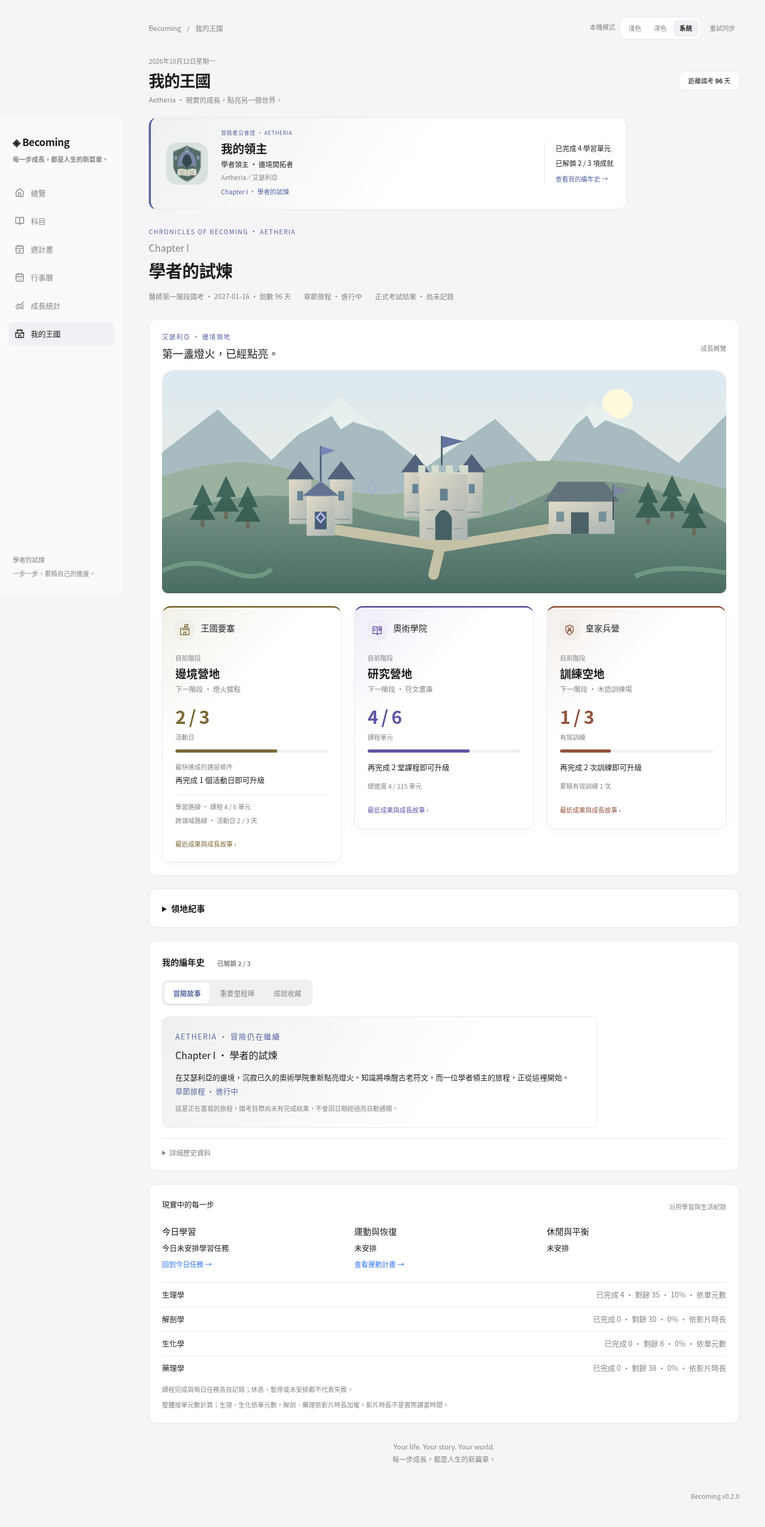
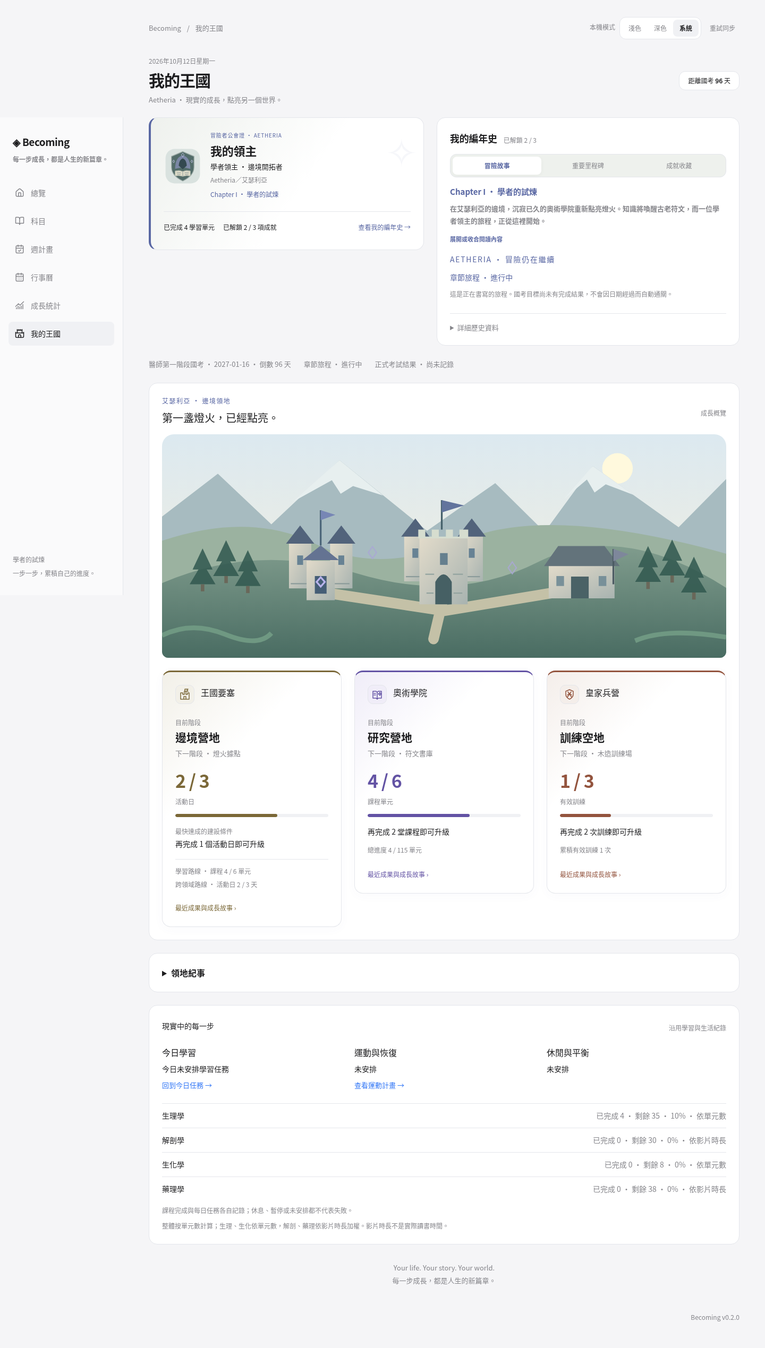
fix: Unite character stories and allow independent building comparison

diff --git a/tests/browser/rpg-ux.spec.js b/tests/browser/rpg-ux.spec.js
@@ -10,20 +10,24 @@ async function seed(page,dated=true){await page.addInitScript(({dated})=>{
 const stored=page=>page.evaluate(()=>Object.fromEntries(Object.entries(localStorage).filter(([key])=>!['med_exam_active_tab','med_exam_active_subject','med_exam_theme_preference'].includes(key))));
 async function view(page,name){await page.getByRole('tab',{name,exact:true}).click();}
 test.beforeEach(async({page})=>{await page.route('**/*',r=>new URL(r.request().url()).hostname==='127.0.0.1'?r.continue():r.abort());await page.clock.install({time:new Date('2026-10-12T04:00:00Z')});});
-for(const width of [390,1440])test('compact guild pass, three chronicles views and unchanged territory values at '+width+'px',async({page})=>{
+for(const width of [320,390,1440])test('compact guild pass, three chronicles views and unchanged territory values at '+width+'px',async({page})=>{
  await page.setViewportSize({width,height:900});await seed(page);const errors=[];page.on('pageerror',e=>errors.push(e.message));await page.goto('/?mode=local');await go(page);const before=await stored(page);
  const card=page.locator('.lord-profile');await expect(card).toContainText('冒險者公會證');await expect(page.locator('#lord-name')).toHaveText('我的領主');await expect(card).toContainText('學者領主 · 邊境開拓者');await expect(card).toContainText('Aetheria／艾瑟利亞');await expect(page.locator('#lord-chapter')).toHaveText('Chapter I · 學者的試煉');await expect(page.locator('#lord-study-count')).toHaveText('已完成 4 學習單元');await expect(page.locator('#lord-achievements-count')).toHaveText('已解鎖 2 / 3 項成就');
- const box=await card.boundingBox();expect(box.width).toBeLessThanOrEqual(900);expect(box.height).toBeLessThanOrEqual(width===390?300:220);
+ const box=await card.boundingBox();expect(box.width).toBeLessThanOrEqual(900);expect(box.height).toBeLessThanOrEqual(300);
+ const chronicle=await page.locator('.chronicle-card').boundingBox();
+ if(width===1440){expect(box.width).toBeGreaterThanOrEqual(380);expect(chronicle.x).toBeGreaterThan(box.x+box.width);expect(Math.abs(chronicle.y-box.y)).toBeLessThan(2);expect(Math.abs(chronicle.height-box.height)).toBeLessThan(24);}else{expect(chronicle.y).toBeGreaterThanOrEqual(box.y+box.height);expect(Math.abs(chronicle.x-box.x)).toBeLessThan(2);}
+ await expect(page.locator('#kingdom-chronicles')).not.toHaveAttribute('open','');await expect(page.locator('#chronicle-chapter')).toBeVisible();await expect(page.locator('#kingdom-story')).toBeVisible();await expect(page.getByRole('tab')).toHaveCount(3);for(const tab of await page.getByRole('tab').all())await expect(tab).toBeVisible();
+ await expect(page.locator('#chronicle-chapter')).toHaveCount(1);await expect(page.locator('#kingdom-story')).toHaveCount(1);await expect(page.locator('.kingdom-intro')).toHaveCount(0);await page.locator('.character-story').screenshot({path:'test-results/character-story-'+width+'.png'});
  expect(await card.evaluate(el=>[...el.children].every(child=>{const a=el.getBoundingClientRect(),b=child.getBoundingClientRect();return b.left>=a.left&&b.right<=a.right&&b.bottom<=a.bottom;}))).toBe(true);
  await expect(page.locator('#building-academy .building-stage')).toHaveText('研究營地');await expect(page.locator('#building-academy .building-number')).toHaveText('4 / 6');await expect(page.locator('#building-academy .building-progress-label')).toHaveText('再完成 2 堂課程即可升級');await expect(page.locator('#building-barracks .building-number')).toHaveText('1 / 3');await expect(page.locator('#building-keep .building-number')).toHaveText('2 / 3');await expect(page.locator('#building-keep .keep-route-overview [data-path]')).toHaveCount(2);
  const colours=await page.locator('.building-number').evaluateAll(es=>es.map(e=>getComputedStyle(e).color));expect(new Set(colours).size).toBe(3);
  await page.locator('#lord-open-chronicles').focus();await page.locator('#lord-open-chronicles').press('Enter');await expect(page.locator('#kingdom-chronicles')).toHaveAttribute('open','');await expect(page.locator('#kingdom-chronicles > summary')).toBeFocused();await expect(page.getByRole('tabpanel',{name:'冒險故事'})).toBeVisible();await expect(page.locator('#chronicle-chapter')).toHaveText('Chapter I · 學者的試煉');await expect(page.locator('#kingdom-story')).toContainText('旅程');await expect(page.locator('.chronicle-state')).toHaveText('章節旅程 · 進行中');
  await expect(page.locator('#chronicle-detailed-history')).not.toHaveAttribute('open','');await expect(page.locator('#xp-detail')).not.toBeVisible();
- await view(page,'重要里程碑');await expect(page.getByRole('tabpanel',{name:'冒險故事'})).not.toBeVisible();await expect(page.locator('#chronicle-history [data-milestone-id]')).toHaveCount(1);await expect(page.locator('#chronicle-history')).toContainText('2026-10-09');await expect(page.locator('#chronicle-current')).toContainText('目前進度 · 日期未記錄');await expect(page.locator('#chronicle-current')).toContainText('研究營地');await expect(page.locator('#chronicle-current')).toContainText('2 / 3 項成就');await expect(page.locator('#chronicle-history')).not.toContainText('建築');
+ await view(page,'重要里程碑');expect((await card.boundingBox()).height).toBe(box.height);await expect(page.getByRole('tabpanel',{name:'冒險故事'})).not.toBeVisible();await expect(page.locator('#chronicle-history [data-milestone-id]')).toHaveCount(1);await expect(page.locator('#chronicle-history')).toContainText('2026-10-09');await expect(page.locator('#chronicle-current')).toContainText('目前進度 · 日期未記錄');await expect(page.locator('#chronicle-current')).toContainText('研究營地');await expect(page.locator('#chronicle-current')).toContainText('2 / 3 項成就');await expect(page.locator('#chronicle-history')).not.toContainText('建築');
  await view(page,'成就收藏');await expect(page.locator('#achievements .achievement')).toHaveCount(3);await expect(page.locator('#achievements .unlocked')).toHaveCount(2);await expect(page.locator('#achievements .achievement-status')).toHaveText(['已解鎖','已解鎖','待解鎖']);await expect(page.locator('#achievements')).toContainText('開始前進');await expect(page.locator('#achievements')).toContainText('持續累積');await page.locator('#chronicle-detailed-history > summary').click();await expect(page.locator('#xp-detail')).toBeVisible();await expect(page.locator('#xp-detail')).toHaveText('60 XP');await expect(page.locator('#legacy-time-history')).toContainText('尚無舊時間目標紀錄');
  expect(await stored(page)).toEqual(before);expect(errors).toEqual([]);expect(await page.evaluate(()=>document.documentElement.scrollWidth<=innerWidth)).toBe(true);
  await page.locator('#chronicle-detailed-history > summary').click();await view(page,'冒險故事');await page.evaluate(()=>{document.activeElement?.blur();document.querySelector('.lord-profile').scrollIntoView({block:'start'});});await page.screenshot({path:'test-results/rpg-overview-'+width+'.png',fullPage:true});
- await view(page,'成就收藏');await page.locator('#kingdom-chronicles').screenshot({path:'test-results/rpg-collection-'+width+'.png'});
+ await view(page,'成就收藏');await page.locator('.chronicle-card').screenshot({path:'test-results/rpg-collection-'+width+'.png'});
 });
 test('missing course dates and legacy XP never manufacture milestone dates or permanent building unlocks',async({page})=>{
  await seed(page,false);await page.goto('/?mode=local');await go(page);const before=await stored(page);await page.locator('#lord-open-chronicles').click();await view(page,'重要里程碑');await expect(page.locator('#chronicle-history [data-milestone-id]')).toHaveCount(0);await expect(page.locator('#chronicle-history')).toContainText('不補填未知日期');await expect(page.locator('#chronicle-current')).toContainText('日期未記錄');await expect(page.locator('#chronicle-current')).not.toContainText('2026-10-10');await expect(page.locator('#chronicle-current')).not.toContainText('永久');expect(await stored(page)).toEqual(before);
@@ -33,4 +37,17 @@ test('chronicles keyboard tabs and refresh keep original awards and default coll
 });
 for(const theme of ['light','dark','system'])test('guild and three building identities fit mobile in '+theme+' theme',async({page})=>{
  await page.setViewportSize({width:320,height:800});if(theme==='system')await page.emulateMedia({colorScheme:'dark'});await seed(page);await page.goto('/?mode=local');await page.waitForFunction(()=>typeof window.updateWorkspace==='function');await page.locator('[data-appearance='+theme+']').click();await go(page);await page.locator('#lord-open-chronicles').click();await view(page,'成就收藏');expect(await page.evaluate(()=>document.documentElement.scrollWidth<=innerWidth)).toBe(true);const colours=await page.locator('.building-number').evaluateAll(es=>es.map(e=>getComputedStyle(e).color));expect(new Set(colours).size).toBe(3);if(theme==='system'){await expect(page.locator('html')).toHaveAttribute('data-theme','dark');await page.emulateMedia({colorScheme:'light'});await expect(page.locator('html')).toHaveAttribute('data-theme','light');}
+});
+
+for(const width of [320,390,1440])test('buildings independently open, close and keep all progress and records at '+width+'px',async({page})=>{
+ await page.setViewportSize({width,height:900});await seed(page);await page.goto('/?mode=local');await go(page);const before=await stored(page),ids=['keep','academy','barracks'];
+ const values=await page.locator('.building-number').allTextContents();
+ for(const id of ids){const details=page.locator('#building-'+id);await expect(details).not.toHaveAttribute('open','');await details.locator(':scope > summary').focus();await details.locator(':scope > summary').press('Enter');}
+ for(const id of ids){await expect(page.locator('#building-'+id)).toHaveAttribute('open','');await expect(page.locator('#building-'+id+' .building-basis')).not.toHaveAttribute('open','');expect(await page.locator('#building-'+id+' .building-events [data-event-id]').count()).toBeLessThanOrEqual(3);}
+ await page.locator('#building-academy > summary').click();await expect(page.locator('#building-academy')).not.toHaveAttribute('open','');for(const id of ['keep','barracks'])await expect(page.locator('#building-'+id)).toHaveAttribute('open','');
+ await page.locator('#building-academy > summary').click();await page.locator('#building-keep .building-basis > summary').click();for(const id of ids)await expect(page.locator('#building-'+id)).toHaveAttribute('open','');
+ const boxes=await page.locator('.kingdom-building').evaluateAll(es=>es.map(el=>{const b=el.getBoundingClientRect();return {x:b.x,y:b.y,right:b.right,bottom:b.bottom};}));
+ for(let i=1;i<boxes.length;i++)if(width===1440)expect(boxes[i].x).toBeGreaterThan(boxes[i-1].right);else expect(boxes[i].y).toBeGreaterThan(boxes[i-1].bottom);
+ expect(await page.locator('.building-number').allTextContents()).toEqual(values);expect(await stored(page)).toEqual(before);expect(await page.evaluate(()=>document.documentElement.scrollWidth<=innerWidth)).toBe(true);
+ await page.evaluate(()=>document.activeElement?.blur());await page.locator('.kingdom-territory').screenshot({path:'test-results/buildings-comparison-'+width+'.png'});
 });

diff --git a/tests/browser/growth.spec.js b/tests/browser/growth.spec.js
@@ -6,7 +6,7 @@ test('growth separates current scheduled task completion from reward history and
  await seed(page);await page.goto('/');await go(page,'stats');await expect(page.locator('#page-title')).toHaveText('成長統計');await expect(page.locator('#growth-week-tasks')).toHaveText('本週 Planner 已完成 1 / 2 項任務（依安排日期）');await expect(page.locator('#growth-week')).toContainText('依任務安排日期');await expect(page.locator('#growth-subjects [data-subject=videos]')).toContainText('依影片時長');await expect(page.locator('#growth-course-total')).toContainText('1 / 115');await expect(page.locator('#weekly-detail')).toContainText('獎勵 3 筆');await expect(page.locator('#growth-exercise')).toContainText('運動完成 1 天');await expect(page.locator('#growth-exercise')).toContainText('主動休息 1 天');await expect(page.locator('#growth-exercise')).toContainText('症狀休息 1 天');await expect(page.locator('#tab-content-stats #progress-trend-card')).toHaveCount(0);await go(page,'home');await page.locator('#planner-date').fill('2026-10-12');await page.locator('[data-task-id=a] input[type=checkbox]').uncheck();await go(page,'stats');await expect(page.locator('#growth-week-tasks')).toHaveText('本週 Planner 已完成 0 / 2 項任務（依安排日期）');await expect(page.locator('#weekly-detail')).toContainText('獎勵 3 筆');
 });
 for(const width of [390,1440])test('lord identity and accessible chronicles entry work without exposing personal account data at '+width+'px',async({page})=>{
- await page.setViewportSize({width,height:900});await seed(page);await page.goto('/');await go(page,'kingdom');await expect(page.locator('#lord-name')).toHaveText('我的領主');await expect(page.locator('.lord-emblem')).toBeVisible();expect(await page.locator('.lord-emblem').evaluate(e=>e.complete&&e.naturalWidth>0)).toBe(true);await expect(page.locator('#lord-achievements-count')).toHaveText('已解鎖 2 / 3 項成就');await expect(page.locator('#lord-study-count')).toHaveText('已完成 1 學習單元');await expect(page.locator('#lord-chapter')).toHaveText('Chapter I · 學者的試煉');const before=await page.evaluate(()=>localStorage.getItem('med_exam_daily_planner_v3_local'));const entry=page.locator('#lord-open-chronicles');await entry.focus();await entry.press('Enter');await expect(page.locator('#kingdom-chronicles')).toHaveAttribute('open','');await expect(page.locator('#kingdom-chronicles > summary')).toBeFocused();await expect(page.locator('#achievements .unlocked')).toHaveCount(2);await expect(page.locator('#xp-detail')).toHaveText('60 XP');const top=await page.locator('#kingdom-chronicles').evaluate(e=>e.getBoundingClientRect().top);expect(top).toBeGreaterThanOrEqual(-1);expect(top).toBeLessThan(200);expect(await page.evaluate(()=>localStorage.getItem('med_exam_daily_planner_v3_local'))).toBe(before);expect(await page.evaluate(()=>document.documentElement.scrollWidth<=innerWidth)).toBe(true);const order=await page.locator('#tab-content-kingdom > *').evaluateAll(es=>es.map(e=>e.id||e.className));expect(order.findIndex(v=>v.includes('lord-profile'))).toBe(0);expect(order.indexOf('kingdom-chronicles')).toBeLessThan(order.findIndex(v=>v.includes('kingdom-reality')));await go(page,'stats');expect(await page.evaluate(()=>document.documentElement.scrollWidth<=innerWidth)).toBe(true);
+ await page.setViewportSize({width,height:900});await seed(page);await page.goto('/');await go(page,'kingdom');await expect(page.locator('#lord-name')).toHaveText('我的領主');await expect(page.locator('.lord-emblem')).toBeVisible();expect(await page.locator('.lord-emblem').evaluate(e=>e.complete&&e.naturalWidth>0)).toBe(true);await expect(page.locator('#lord-achievements-count')).toHaveText('已解鎖 2 / 3 項成就');await expect(page.locator('#lord-study-count')).toHaveText('已完成 1 學習單元');await expect(page.locator('#lord-chapter')).toHaveText('Chapter I · 學者的試煉');const before=await page.evaluate(()=>localStorage.getItem('med_exam_daily_planner_v3_local'));const entry=page.locator('#lord-open-chronicles');await entry.focus();await entry.press('Enter');await expect(page.locator('#kingdom-chronicles')).toHaveAttribute('open','');await expect(page.locator('#kingdom-chronicles > summary')).toBeFocused();await expect(page.locator('#achievements .unlocked')).toHaveCount(2);await expect(page.locator('#xp-detail')).toHaveText('60 XP');const top=await page.locator('#kingdom-chronicles').evaluate(e=>e.getBoundingClientRect().top);expect(top).toBeGreaterThanOrEqual(-1);expect(top).toBeLessThan(200);expect(await page.evaluate(()=>localStorage.getItem('med_exam_daily_planner_v3_local'))).toBe(before);expect(await page.evaluate(()=>document.documentElement.scrollWidth<=innerWidth)).toBe(true);const order=await page.locator('#tab-content-kingdom > *').evaluateAll(es=>es.map(e=>e.id||e.className));expect(order.findIndex(v=>v.includes('character-story'))).toBe(0);await expect(page.locator('.character-story .lord-profile')).toHaveCount(1);await expect(page.locator('.character-story #kingdom-chronicles')).toHaveCount(1);await go(page,'stats');expect(await page.evaluate(()=>document.documentElement.scrollWidth<=innerWidth)).toBe(true);
 });
 test('growth empty states and historical pause limitations are explicit',async({page})=>{
  await page.goto('/');await go(page,'stats');await expect(page.locator('#growth-week-dates')).toContainText('台灣日期');await expect(page.locator('#growth-exercise-records')).toContainText('尚無運動日紀錄');await expect(page.locator('#growth-training-paused')).toContainText('沒有歷史暫停時間');await expect(page.locator('#growth-award-total')).toContainText('累積 0 筆');

diff --git a/kingdom-ui.js b/kingdom-ui.js
@@ -8,11 +8,16 @@ import {dateKey,gameStats,COURSE_PROGRESS_NOTE} from './study-core.js';
 const node=(tag,cls='',text)=>{const el=document.createElement(tag);el.className=cls;if(text!==undefined)el.textContent=text;return el;};
 export function createKingdomUI({data,states,planner,settings,life,awards=()=>({}),courseDates=()=>({}),today=()=>dateKey()}) {
   const page=document.getElementById('tab-content-kingdom');page.classList.add('kingdom-page');
-  page.innerHTML=`<section class="workspace-panel lord-profile" aria-labelledby="lord-name"><img class="lord-emblem" src="/public/art/lord-emblem.svg" alt="原創匿名學者領主徽章：兜帽、書本與符文" width="88" height="88"><div class="lord-identity"><p class="kingdom-eyebrow">冒險者公會證 · Aetheria</p><h2 id="lord-name">我的領主</h2><p class="lord-title">學者領主 · 邊境開拓者</p><p class="workspace-note">Aetheria／艾瑟利亞</p><p id="lord-chapter" class="lord-chapter"></p></div><div class="lord-card-progress"><div class="lord-summary"><span id="lord-study-count"></span><span id="lord-achievements-count"></span></div><a id="lord-open-chronicles" href="#kingdom-chronicles">查看我的編年史 →</a></div></section><section class="kingdom-intro"><p class="kingdom-eyebrow">${BRAND.concept} · Aetheria</p><h2>Chapter I <span>學者的試煉</span></h2><div class="kingdom-chapter-meta"><span id="kingdom-exam"></span><span>章節旅程 · 進行中</span><span>正式考試結果 · 尚未記錄</span></div></section>
+  page.innerHTML=`<section class="workspace-panel lord-profile" aria-labelledby="lord-name"><img class="lord-emblem" src="/public/art/lord-emblem.svg" alt="原創匿名學者領主徽章：兜帽、書本與符文" width="88" height="88"><div class="lord-identity"><p class="kingdom-eyebrow">冒險者公會證 · Aetheria</p><h2 id="lord-name">我的領主</h2><p class="lord-title">學者領主 · 邊境開拓者</p><p class="workspace-note">Aetheria／艾瑟利亞</p><p id="lord-chapter" class="lord-chapter"></p></div><div class="lord-card-progress"><div class="lord-summary"><span id="lord-study-count"></span><span id="lord-achievements-count"></span></div><a id="lord-open-chronicles" href="#kingdom-chronicles">查看我的編年史 →</a></div></section><div class="kingdom-chapter-meta"><span id="kingdom-exam"></span><span>章節旅程 · 進行中</span><span>正式考試結果 · 尚未記錄</span></div>
   <section class="kingdom-territory" aria-labelledby="kingdom-domain-title"><div class="panel-heading"><div><p class="kingdom-eyebrow">艾瑟利亞 · 邊境領地</p><h3 id="kingdom-domain-title">第一盞燈火，已經點亮。</h3></div><span class="workspace-note">成長概覽</span></div><img class="kingdom-map" src="/public/art/aetheria.svg" alt="艾瑟利亞邊境：森林與山脈間的奧術學院、王國要塞與皇家兵營" width="960" height="380"><div id="kingdom-buildings" class="kingdom-buildings"></div></section>
   <section class="workspace-panel kingdom-reality" aria-labelledby="kingdom-reality-title"><div class="panel-heading"><h3 id="kingdom-reality-title">現實中的每一步</h3><span class="workspace-note">沿用學習與生活紀錄</span></div><div class="kingdom-life"><div><h4>今日學習</h4><p id="kingdom-study"></p><a href="#" data-kingdom-go="home">回到今日任務 →</a></div><div><h4>運動與恢復</h4><p id="kingdom-exercise"></p><a href="#" data-kingdom-go="exercise">查看運動計畫 →</a></div><div><h4>休閒與平衡</h4><p id="kingdom-leisure"></p></div></div><div id="kingdom-subjects"></div><p class="workspace-note">課程完成與每日任務各自記錄；休息、暫停或未安排都不代表失敗。</p><p class="workspace-note" data-course-progress-basis>${COURSE_PROGRESS_NOTE}</p></section>
   <details id="kingdom-chronicles" class="workspace-panel kingdom-chronicles"><summary>我的編年史 <span id="chronicle-achievement-count" class="workspace-note"></span></summary><div data-chronicle-content></div><details id="chronicle-detailed-history" class="chronicle-detailed-history"><summary>詳細歷史資料</summary><p class="workspace-note">原有 XP 與歷史紀錄完整保留，不換算為王國資源。</p><p id="xp-detail"></p><p id="game-sync-status" class="workspace-note" role="status"></p><details class="planner-history"><summary>舊時間目標紀錄</summary><div id="legacy-time-history"></div></details></details></details><p class="kingdom-footer">${BRAND.slogan}<br>${BRAND.meaning}</p>`;
-  page.querySelector('.kingdom-territory').after(page.querySelector('#kingdom-chronicles'));
+  const characterStory=node('section','character-story');characterStory.setAttribute('aria-label','角色與故事');
+  const profile=page.querySelector('.lord-profile'),chronicles=page.querySelector('#kingdom-chronicles');
+  const chronicleCard=node('section','workspace-panel chronicle-card');chronicleCard.setAttribute('aria-labelledby','chronicle-card-title');
+  const heading=node('div','chronicle-card-heading');heading.append(node('h2','','我的編年史'),page.querySelector('#chronicle-achievement-count'));heading.firstChild.id='chronicle-card-title';
+  chronicles.classList.remove('workspace-panel');chronicles.querySelector(':scope > summary').replaceChildren();
+  chronicleCard.append(heading,chronicles);profile.before(characterStory);characterStory.append(profile,chronicleCard);
   const territory=createTerritoryUI(page);
   const chroniclesUI=createChroniclesUI(page.querySelector('#kingdom-chronicles'));
   page.querySelectorAll('[data-kingdom-go]').forEach(link=>link.onclick=event=>{event.preventDefault();window.switchTab(link.dataset.kingdomGo);});

diff --git a/kingdom.css b/kingdom.css
@@ -2,10 +2,6 @@
 .kingdom-page { --kingdom-rune:#5967a3; --kingdom-stone:#eef1ed; gap:24px; }
 :root[data-theme=dark] .kingdom-page { --kingdom-rune:#a8b2ec; --kingdom-stone:#252e2d; }
 .kingdom-eyebrow { color:var(--kingdom-rune); text-transform:uppercase; letter-spacing:.12em; font-size:12px; margin:0 0 8px; }
-.kingdom-intro { padding:8px 0; max-width:840px; }
-.kingdom-intro h2 { font-size:18px; font-weight:500; color:var(--muted); margin:0 0 16px; }
-.kingdom-intro h2 span { display:block; font-size:32px; color:var(--ink); margin-top:4px; font-weight:650; letter-spacing:-.5px; }
-.kingdom-intro > p:not(.kingdom-eyebrow) { line-height:1.85; color:var(--muted); }
 .kingdom-chapter-meta { display:flex; flex-wrap:wrap; gap:8px 24px; font-size:13px; color:var(--muted); margin-top:16px; }
 .kingdom-territory { background:var(--surface); border:1px solid var(--line); border-radius:16px; overflow:hidden; }
 .kingdom-territory > .panel-heading { padding:24px 24px 0; margin-bottom:16px; }
@@ -28,7 +24,6 @@
 .kingdom-outlook ul { padding:0; margin:0 0 12px; list-style:none; }
 .kingdom-footer { text-align:center; font-size:13px; color:var(--muted); line-height:1.8; margin:8px 0; }
 @media(max-width:700px) {
- .kingdom-intro h2 span { font-size:28px; }
  .kingdom-buildings,.kingdom-life,.kingdom-outlook { grid-template-columns:1fr; gap:24px; }
  .kingdom-buildings { padding:16px; }
  .kingdom-territory > .panel-heading { padding:16px 16px 0; align-items:flex-start; }
@@ -105,3 +100,41 @@
  .kingdom-chronicles .achievement { padding:16px; }
  .kingdom-chronicles .achievement::before { display:inline-block; vertical-align:middle; margin:0 12px 0 0; }
 }
+
+/* One character/story region; content grows without stretching the adjacent pass. */
+.character-story { display:grid; grid-template-columns:minmax(380px,1fr) minmax(380px,1.1fr); gap:24px; align-items:start; }
+.character-story > * { min-width:0; margin:0; min-height:250px; }
+.character-story .lord-profile { grid-template-columns:72px minmax(0,1fr); gap:16px; padding:24px; }
+.character-story .lord-emblem { width:72px; height:72px; }
+.character-story .lord-card-progress { grid-column:1/-1; border-left:0; border-top:1px solid var(--line); padding:12px 0 0; display:flex; flex-wrap:wrap; align-items:center; justify-content:space-between; gap:8px; }
+.character-story .lord-summary { flex-direction:row; flex-wrap:wrap; gap:4px 16px; font-size:12px; }
+.character-story #lord-open-chronicles { padding:8px 0; }
+.chronicle-card { padding:24px; }
+.chronicle-card-heading { display:flex; align-items:center; gap:12px; flex-wrap:wrap; }
+.chronicle-card-heading h2 { font-size:18px; font-weight:600; margin:0; }
+.chronicle-card-heading .workspace-note { font-size:12px; }
+.chronicle-card .chronicle-tabs { display:grid; grid-template-columns:repeat(3,minmax(0,1fr)); width:100%; margin:16px 0; }
+.chronicle-card .chronicle-tabs button { padding:8px 4px; font-size:12px; }
+.chronicle-card .kingdom-chronicles > summary { display:block; cursor:pointer; list-style:none; }
+.chronicle-card .kingdom-chronicles > summary::-webkit-details-marker { display:none; }
+.chronicle-card .kingdom-chronicles > summary:focus-visible { outline:2px solid var(--accent); outline-offset:4px; border-radius:8px; }
+.chronicle-card #chronicle-chapter { font-size:15px; margin:0 0 8px; color:var(--kingdom-rune); }
+.chronicle-card #kingdom-story { font-size:13px; line-height:1.8; color:var(--muted); margin:0 0 8px; }
+.chronicle-card .chronicle-expand-hint { color:var(--kingdom-rune); font-size:11px; }
+.chronicle-card .kingdom-chronicles[open]:not([data-view=story])[data-view] #kingdom-story { display:none; }
+.chronicle-card .chronicle-story { border:0; background:none; padding:0; }
+.chronicle-card .chronicle-panel { padding-bottom:4px; }
+.chronicle-card .achievement-list { grid-template-columns:1fr; }
+.chronicle-card .achievement { padding:12px 16px; }
+.chronicle-card .achievement::before { display:inline-block; vertical-align:middle; margin:0 12px 0 0; }
+.kingdom-chapter-meta { margin-top:0; line-height:1.7; }
+@media(max-width:1100px) {
+ .character-story { grid-template-columns:minmax(0,1fr); gap:16px; }
+ .character-story > * { min-height:0; }
+}
+@media(max-width:700px) {
+ .character-story .lord-profile { grid-template-columns:64px minmax(0,1fr); padding:16px; gap:12px; }
+ .character-story .lord-emblem { width:64px; height:64px; }
+ .chronicle-card { padding:16px; }
+}
+.chronicle-card .kingdom-chronicles:not([open]) #kingdom-story { display:-webkit-box; -webkit-box-orient:vertical; -webkit-line-clamp:2; overflow:hidden; }

diff --git a/chronicles-ui.js b/chronicles-ui.js
@@ -19,11 +19,15 @@ export function createChroniclesUI(chronicles){
  <button type="button" role="tab" id="chronicle-tab-story" aria-controls="chronicle-panel-story" aria-selected="true" tabindex="0" data-chronicle-view="story">冒險故事</button>
  <button type="button" role="tab" id="chronicle-tab-milestones" aria-controls="chronicle-panel-milestones" aria-selected="false" tabindex="-1" data-chronicle-view="milestones">重要里程碑</button>
  <button type="button" role="tab" id="chronicle-tab-collection" aria-controls="chronicle-panel-collection" aria-selected="false" tabindex="-1" data-chronicle-view="collection">成就收藏</button></div>
- <section class="chronicle-panel chronicle-story" id="chronicle-panel-story" role="tabpanel" aria-labelledby="chronicle-tab-story" tabindex="0"><p class="kingdom-eyebrow">Aetheria · 冒險仍在繼續</p><h3 id="chronicle-chapter"></h3><p id="kingdom-story"></p><p class="chronicle-state">章節旅程 · 進行中</p><p class="workspace-note">這是正在書寫的旅程。國考目標尚未有完成結果，不會因日期經過而自動通關。</p></section>
+ <section class="chronicle-panel chronicle-story" id="chronicle-panel-story" role="tabpanel" aria-labelledby="chronicle-tab-story" tabindex="0"><p class="kingdom-eyebrow">Aetheria · 冒險仍在繼續</p><p class="chronicle-state">章節旅程 · 進行中</p><p class="workspace-note">這是正在書寫的旅程。國考目標尚未有完成結果，不會因日期經過而自動通關。</p></section>
  <section class="chronicle-panel" id="chronicle-panel-milestones" role="tabpanel" aria-labelledby="chronicle-tab-milestones" tabindex="0" hidden><h3>已留下的學習足跡</h3><ul class="chronicle-milestones" id="chronicle-history"></ul><h3>目前成長</h3><p class="workspace-note">依現有紀錄呈現的目前進度；沒有可靠的歷史達標日期。</p><ul class="chronicle-milestones" id="chronicle-current"></ul></section>
  <section class="chronicle-panel" id="chronicle-panel-collection" role="tabpanel" aria-labelledby="chronicle-tab-collection" tabindex="0" hidden><h3>旅途中的徽章</h3><p class="workspace-note">沿用原有成就與解鎖規則。已解鎖與待解鎖的徽章都保留在這裡。</p><div id="achievements" class="achievement-list"></div></section>`;
- const tabs=[...host.querySelectorAll('[role=tab]')];
+ const summary=chronicles.querySelector(':scope > summary'),chapter=node('h3'),story=node('p');chapter.id='chronicle-chapter';story.id='kingdom-story';
+ summary.append(chapter,story,node('small','workspace-note chronicle-expand-hint','展開或收合閱讀內容'));
+ const navigation=host.querySelector('.chronicle-tabs');chronicles.before(navigation);
+ const tabs=[...navigation.querySelectorAll('[role=tab]')];
  function select(index,focus=false){
+  chronicles.open=true;chronicles.dataset.view=tabs[index].dataset.chronicleView;
   for(const [i,tab] of tabs.entries()){
    tab.setAttribute('aria-selected',String(i===index));tab.tabIndex=i===index?0:-1;
    host.querySelector('#'+tab.getAttribute('aria-controls')).hidden=i!==index;
@@ -38,8 +42,8 @@ export function createChroniclesUI(chronicles){
   };
  });
  function render({chapter,buildings,achievements}){
-  host.querySelector('#chronicle-chapter').textContent=chapter.label+' · '+chapter.title;
-  host.querySelector('#kingdom-story').textContent=chapter.story;
+  chronicles.querySelector('#chronicle-chapter').textContent=chapter.label+' · '+chapter.title;
+  chronicles.querySelector('#kingdom-story').textContent=chapter.story;
   const milestones=chronicleMilestones(buildings,achievements);
   for(const [key,events] of Object.entries(milestones)){
    const list=host.querySelector('#chronicle-'+key);list.replaceChildren();

diff --git a/tests/browser/territory.spec.js b/tests/browser/territory.spec.js
@@ -21,12 +21,12 @@ for(const width of [390,1440])test('territory stages and keyboard details explai
  }
  const summary=page.locator('#building-academy > summary');await summary.focus();await summary.press('Enter');await expect(page.locator('#building-academy')).toHaveAttribute('open','');
  await expect(page.locator('#building-academy .building-progress-label')).toHaveText('再完成 17 堂課程即可升級');await expect(page.locator('#building-academy .building-source')).not.toBeVisible();
- await page.locator('#building-barracks > summary').click();await expect(page.locator('#building-barracks')).toHaveAttribute('open','');await expect(page.locator('#building-academy')).not.toHaveAttribute('open','');
+ await page.locator('#building-barracks > summary').click();await expect(page.locator('#building-barracks')).toHaveAttribute('open','');await expect(page.locator('#building-academy')).toHaveAttribute('open','');
  await openBasis(page,'barracks');await expect(page.locator('#building-barracks .building-source')).toContainText('包含 1 次舊');await expect(page.locator('#building-barracks .building-progress-label')).toHaveText('再完成 5 次訓練即可升級');
  await page.locator('#building-keep > summary').click();await expect(page.locator('#building-keep .building-progress-label')).toHaveText('再完成 5 個活動日即可升級');
  await page.locator('#realm-activity > summary').click();await expect(page.locator('#realm-activity')).toContainText('2026-10-10');await expect(page.locator('#realm-activity')).toContainText('日期未記錄');await expect(page.locator('#realm-activity')).not.toContainText('2026-10-13');
  const events=await page.locator('#realm-activity [data-event-id]').evaluateAll(es=>es.map(e=>e.dataset.eventId));expect(new Set(events).size).toBe(events.length);expect(await stored(page)).toEqual(before);expect(await page.evaluate(()=>document.documentElement.scrollWidth<=innerWidth)).toBe(true);
- const order=await page.locator('#tab-content-kingdom > *').evaluateAll(es=>es.map(e=>e.id||e.className));expect(order.indexOf('realm-activity')).toBeLessThan(order.indexOf('kingdom-chronicles'));expect(order.indexOf('kingdom-chronicles')).toBeLessThan(order.findIndex(v=>v.includes('kingdom-reality')));
+ const order=await page.locator('#tab-content-kingdom > *').evaluateAll(es=>es.map(e=>e.id||e.className));expect(order.findIndex(v=>v.includes('character-story'))).toBe(0);expect(order.findIndex(v=>v.includes('kingdom-territory'))).toBeLessThan(order.indexOf('realm-activity'));expect(order.indexOf('realm-activity')).toBeLessThan(order.findIndex(v=>v.includes('kingdom-reality')));
 });
 test('empty territory does not infer past exercise from the configured future plan',async({page})=>{
  await page.addInitScript(()=>localStorage.setItem('med_exam_life_v1_local',JSON.stringify({days:{},training:{startedOn:'2026-01-01',stage:4,week:Array(7).fill('strength_a')},pending:{}})));await page.goto('/');await go(page);

diff --git a/territory-ui.js b/territory-ui.js
@@ -67,7 +67,6 @@ export function createTerritoryUI(page){
   const basis=node('details','building-basis');basis.append(node('summary','','資料來源與計算說明'),node('p','building-source workspace-note'),node('p','workspace-note','成果依已記錄日期由新到舊排列；沒有日期的成果排在後面，標示「日期未記錄」。紀錄所屬日期不代表實際完成時刻，也不推測缺少的歷史日期。'),node('p','workspace-note','目前階段依現有紀錄判定；更正課程或活動會重新計算。休息與未登入不扣分。'),node('h5','','詳細升級門檻'));
   if(id==='keep')basis.append(node('h6','','目前階段'),node('ul','keep-current-paths'));
   basis.append(node('ul','building-next'));body.append(basis);details.append(summary,body);card.append(details);container.append(card);
-  details.addEventListener('toggle',()=>{if(details.open)container.querySelectorAll('.building-details').forEach(other=>{if(other!==details)other.open=false;});});
  }
  const activity=node('details','workspace-panel realm-activity');activity.id='realm-activity';activity.append(node('summary','','領地紀事'),node('p','workspace-note','每一步都留下足跡。先看有日期的成果，再回顧未記日期的成果。'),node('ul','realm-events'));
  const note=node('details','realm-history-note');note.append(node('summary','workspace-note','關於紀事日期'),node('p','workspace-note','只使用已記錄的完成日期；未記日期的成果無法判定何時發生。紀事不把目前建築階段當作新事件，也不推測缺少的歷史紀錄。'));activity.append(note);

diff --git a/README.md b/README.md
@@ -360,4 +360,7 @@ territoryMilestoneSnapshot 只說明「目前達標」，日期為 null；沒有
 
 成就收藏沿用 workspace 的原 gameStats 及成就 DOM，不改解鎖條件；完整 XP、同步狀態與舊時間目標移至預設收合的「詳細歷史資料」。檢視狀態只存在 UI 記憶體，沒有持久化、Firebase 訂閱、寫入或新資料系統。
 
-三座建築沿用 Phase 2B.1 的門檻、數值、雙路線與三層資訊；只新增藍紫符文書本、赤銅盾劍與石灰暗金城旗的視覺識別，使用原創內嵌向量圖示與主題配色。原王國地圖維持不變，沒有階段外觀或升級動畫。開發使用從 PR #9 Head 建立的獨立分支，stacked PR 的 Base 指向 feature/becoming-phase2b1，固定 staging 與 main 保留既有 SHA。
+三座建築沿用 Phase 2B.1 的門檻、數值、雙路線與三層資訊；只新增藍紫符文書本、赤銅盾劍與石灰暗金城旗的視覺識別，使用原創內嵌向量圖示與主題配色。原王國地圖維持不變，沒有階段外觀或升級動畫。開發使用從 PR #9 Head 建立的獨立分支，stacked PR 的 Base 指向 feature/becoming-phase2b1，main 維持不變；固定 staging 在完整測試與快轉條件確認後，依使用者授權同步 PR #10 最新版本供人工驗收。
+
+
+Phase 2B.1a UX 收尾：領主與同一份完整編年史整合為角色與故事區域，寬桌面並排、窄螢幕上下排列；展開內容不拉高領主卡。三個檢視入口直接可見，點選即在原區域展開內容；既有領主連結、progression 書籤與詳細歷史收合保留。重複大型章節區改為精簡考試資訊列，倒數與章節資料不變。三座建築改為各自獨立開關，可同時比較所有建築；預設仍收合，計算與資料來源不變。

diff --git a/CHANGELOG.md b/CHANGELOG.md
@@ -6,11 +6,14 @@
 
 ### Phase 2B.1a — RPG 呈現
 
+- UX 收尾：領主與完整編年史並排整合，手機上下排列；移除重複大型章節標題，保留考試資訊及舊導覽相容性。
+- 三座建築可獨立同時展開與收合，保留原成長數值與資料來源收合，方便比較。
+
 - 領主卡改為精簡冒險者公會證：沿用徽章、匿名領主名稱、章節及課程／成就摘要，桌面橫向且限寬，手機緊湊排列。
 - 編年史分為冒險故事、重要里程碑與成就收藏；使用既有章節敘事與原成就解鎖規則。XP、同步狀態與舊時間目標保留於預設收合的詳細歷史資料。
 - 長期里程碑只保留最早已記錄的課程足跡，以及明確標示的目前課程、領地與成就進度；缺日期不推測歷史升級或解鎖日期，不新增事件庫或微小每日事件。
 - 奧術學院使用藍紫符文書本、皇家兵營使用赤銅盾劍、王國要塞使用石灰暗金城旗；Light／Dark／System 均保留清楚對比，沿用三層領地 UX、原地圖與所有成長數值。
-- 版本維持 0.2.0；無新 Schema、成長資料系統、XP 規則、打卡、貨幣或升級動畫。Phase 2B.1a 使用獨立 stacked PR 與 Preview，保留 PR #9 固定 staging 驗收環境。
+- 版本維持 0.2.0；無新 Schema、成長資料系統、XP 規則、打卡、貨幣或升級動畫。Phase 2B.1a 延續既有 stacked PR #10，測試通過後安全快轉固定 staging 供人工驗收，main 與 Production 不變。
 
 ### Added
 
